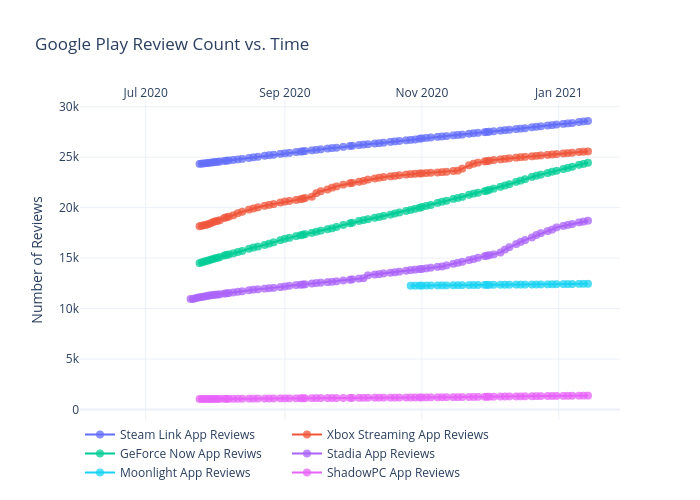
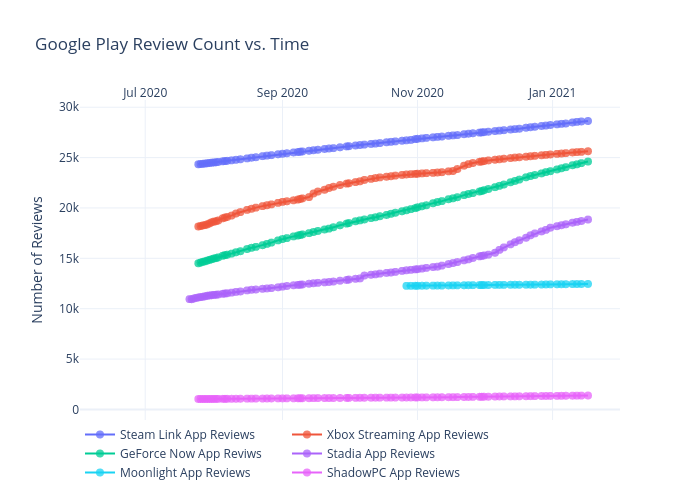
Add files via upload

diff --git a/googleplay/figure.js b/googleplay/figure.js
@@ -204,7 +204,8 @@ var figure = {
                 "28382",
                 "28490",
                 "28544",
-                "28586"
+                "28586",
+                "28632"
             ],
             "marker": {
                 "size": 8,
@@ -418,7 +419,8 @@ var figure = {
                 "25443",
                 "25511",
                 "25544",
-                "25570"
+                "25570",
+                "25629"
             ],
             "marker": {
                 "size": 8,
@@ -632,7 +634,8 @@ var figure = {
                 "24049",
                 "24242",
                 "24332",
-                "24450"
+                "24450",
+                "24606"
             ],
             "marker": {
                 "size": 8,
@@ -846,7 +849,8 @@ var figure = {
                 "18379",
                 "18538",
                 "18618",
-                "18706"
+                "18706",
+                "18849"
             ],
             "marker": {
                 "size": 8,
@@ -1060,7 +1064,8 @@ var figure = {
                 "12429",
                 "12445",
                 "12449",
-                "12452"
+                "12452",
+                "12457"
             ],
             "marker": {
                 "size": 8,
@@ -1274,7 +1279,8 @@ var figure = {
                 "1358",
                 "1364",
                 "1369",
-                "1374"
+                "1374",
+                "1380"
             ],
             "marker": {
                 "size": 8,
@@ -1293,8 +1299,8 @@ var figure = {
             "side": "top",
             "type": "date",
             "range": [
-                "2020-06-02 21:24:41.8746",
-                "2021-01-27 02:35:18.1254"
+                "2020-06-02 16:57:35.6748",
+                "2021-01-30 07:02:24.3252"
             ],
             "title": {
                 "text": ""
@@ -1304,8 +1310,8 @@ var figure = {
         "yaxis": {
             "type": "linear",
             "range": [
-                -935.2568384681836,
-                30557.256838468184
+                -938.5482291966603,
+                30606.548229196662
             ],
             "title": {
                 "text": "Number of Reviews"
